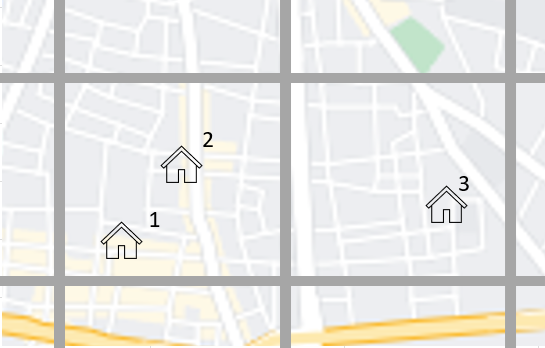
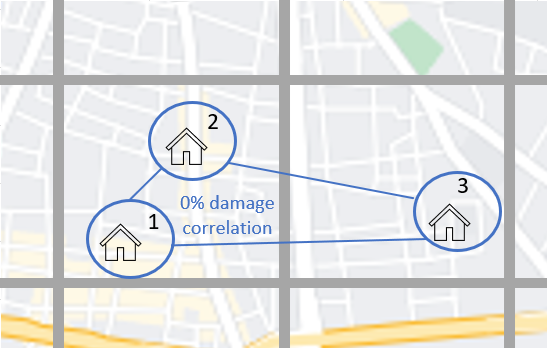
correlation updates

diff --git a/src/sections/correlation.rst b/src/sections/correlation.rst
@@ -22,7 +22,7 @@ Introduction
 This section covers the options in Oasis for modelling correlation in secondary uncertainty, or correlation in the modelled severity of loss given
 an event. 
 
-Correlation is modelled at the most detailed level in Oasis for all models.  The correlated ground up losses are aggregated as they are passed through the financial terms so that all of the downstream financial perspectives capture this correlation.
+Correlation can be modelled at a very detailed level in Oasis. A rule may be specified for correlating loss between the individual coverages of each site for each hazard that impacts them within the context of a single event. The correlated ground up losses are aggregated as they are passed through the financial terms so that all of the downstream financial perspectives capture this correlation.
 
 The methods of correlating losses can vary by model depending on which of the features are used. Users can also control correlation settings for their portfolio.
 
@@ -64,9 +64,10 @@ These can be summarized as follows;
     *   User override using CorrelationGroup field in OED
     *   User override using an OED field list parameter
 *  1.27 and later
+    *   Peril correlation groups
+    *   Partial correlation for damage
+    *   Separate groupings for hazard correlation
     *   Separate hazard and damage sampling (full monte carlo sampling). 
-    *   Partial correlation for damage. 
-    *   Separate groupings for hazard correlation.  
     *   Partial correlation for hazard
 
 |
@@ -85,7 +86,7 @@ In Oasis, each exposure at risk is assigned a ‘group_id’ which is its correl
 •   When exposures have the same group_id, damage will be sampled with full correlation. 
 •   When exposures have different group_ids, damage will be sampled independently.  
 
-To find out how the correlated and independent sampling works, please see the ‘calculation’ section.
+To find out how the correlated and independent sampling works, please see the Sampling Methodology section.
 
 The three illustrated exposures have different group_ids assigned and would all be sampled independently.
 
@@ -95,6 +96,10 @@ The three illustrated exposures have different group_ids assigned and would all 
    :width: 600
 
 |
+
+Note that the locations illustrated may be impacted by the same or similar hazard intensity values per event, depending on the model's footprint. Where there is a single intensity value per model cell in the footprint (this is generally the case), it is only the correlation in damage given the hazard intensity that is being specified using the group_id. 
+
+**Default settings**
 
 Each location in the OED location file is assigned a unique group_id.  This is the system default behaviour for all models.
 
@@ -107,7 +112,7 @@ The group_id is generated automatically based on unique values of the input OED 
     "Port1", "Acc1", "Loc2"
     "Port1", "Acc1", "Loc3"
 
-Under this setting, multiple coverages at each location will be damaged with full correlation, because the group_id is defined at the location level.
+Multiple coverages at each location will be damaged with full correlation, because the group_id is defined at the location level and is the same number for all coverages.
 
 **Model specification of correlation groups**
 
@@ -140,7 +145,7 @@ A modeller can use other OED fields to define the groups, and/or internal Oasis 
 
 This data setting would result in all locations with the same areaperil_id (located in the same hazard model grid cell) being assigned the same group_id.
 
-The two locations in the cell on the left would be assigned the same group_id and damaged with full correlation, but the location in the cell on the right would be sampled independently from every other model cell.
+The two locations in the cell on the left would be assigned the same group_id and damaged with full correlation, but the location in the cell on the right would be sampled independently from locations in every other model cell.
 
 **Correlation groups assigned by model cell**
 
@@ -211,7 +216,138 @@ The OED field list can be specified in the oasislmf settings using the **group_i
 .. _available_1.27:
 
 Available in OasisLMF 1.27
-#########################
+##########################
+
+New correlation features were introduced in release 1.27 in 2022.  This meant breaking changes in the format of the model settings file, and an alternative runtime calculation option 'gulmc' which is required for some of the features explained below.  
+
+The correlation functionality described here is available to use for any standard Oasis model. Complex models that use bespoke correlation methodologies can continue to be used as before, or the new functionality could be incorporated within the complex model wrapper by the model provider. 
+
+|
+
+**Peril correlation groups**
+
+There can be multiple hazards in an event which can give rise to loss. There may be the same peril type, for example flooding from different sources such as river flood / heavy rainfall, or there may be completely different perils and types of damage (e.g. high wind speeds causing roof damage, and flooding causing ground floor damage). 
+
+In previous versions of Oasis, all peril damage at a location has been treated as fully correlated. 
+
+There are now two options; model developers can group the same peril types together to fully correlate them at a location, or treat damage from different peril types (e.g. wind and flood) as independent. 
+
+A peril correlation group number (an integer) can be specified in the lookup settings of the model settings file. This is done for each single peril code used by the model. If peril codes are assigned the same peril correlation group, it means that damage will be fully correlated for those peril codes at each location.   
+
+Here is an example of independent peril damage for a model using two single peril codes;
+
+|
+
+``Model_settings.json``
+
+.. code-block:: JSON
+
+    "lookup_settings":{
+        "supported_perils":[
+           {"id": "WSS", "desc": "Single Peril: Storm Surge", "peril_correlation_group": 1},
+           {"id": "WTC", "desc": "Single Peril: Tropical Cyclone", "peril_correlation_group": 2},
+           {"id": "WW1", "desc": "Group Peril: Windstorm with storm surge"},
+           {"id": "WW2", "desc": "Group Peril: Windstorm w/o storm surge"}
+        ]
+    },
+
+|
+
+The second example groups two single peril codes together in one peril correlation group, meaning that damage will be fully correlated at a location.
+
+``Model_settings.json``
+
+.. code-block:: JSON
+
+    "lookup_settings":{
+        "supported_perils":[
+           {"id": "ORF", "desc": "Single Peril: Fluvial Flood", "peril_correlation_group": 1},
+           {"id": "OSF", "desc": "Single Peril: Pluvial Flood", "peril_correlation_group": 1},
+           {"id": "OO1", "desc": "Group Peril: All Flood perils"}
+        ]
+    },
+
+|
+
+This feature only defines whether peril damage is correlated or independent at a location, and the behaviour is the same for all locations.  
+
+Correlation in  damage between locations is still governed by the group correlation feature of 1.15. If locations share the same group_id across locations, then the damage will be 100% correlated, for each peril correlation group.  
+
+The partial damage correlation feature described below has been introduced to enable a finer degree of control of damage correlation across locations.
+
+|
+
+**Partial damage correlation**
+
+A global damage correlation factor can be specified by the model provider to define how damage should be correlated across locations for each event.  One factor may be specified for each peril correlation group.  This enables correlation in damage for perils that occur in the same event but have different spatial variability in hazard intensity to be specified separately.
+
+The global correlation factor is a number between 0 and 1, where 0 means no correlation and 1 means 100% correlation.  The higher the correlation factor, the greater the tendancy that damage will be consistently low or high across the portfolio with each sample.  When losses are summed to the portfolio level, this leads to a wider range of loss outcomes for the portfolio, per event, and greater extreme losses.
+
+The correlation factor works together with the group correlation functionality. Locations with the same group_id will still have 100% damage correlation, but locations with different group_ids will have partially correlated damage rather than fully independent damage.  
+
+This means that the decision of how group_ids are assigned and the global correlation factor must be made together by the model provider.
+
+|
+
+**Partial damage correlation of 40% between all locations**
+
+.. image:: ../images/correlation4.png
+   :width: 600
+
+|
+
+The correlation factor is specified in a new 'correlation_settings' section of the model settings file.
+
+The example illustrated above would be specified using: 
+
+*   data settings to specify how locations should be grouped
+*   lookup settings to specify the peril correlation group (single peril in this case), and 
+*   correlation settings to specify the global damage correlation factor
+
+|
+
+``Model_settings.json``
+
+.. code-block:: JSON
+
+
+    "data_settings": {
+    "damage_group_fields": ["PortNumber", "AccNumber", "LocNumber"] }
+    },
+
+    "lookup_settings":{
+        "supported_perils":[
+           {"id": "OSF", "desc": "Single Peril: Pluvial Flood", "peril_correlation_group": 1}
+        ]
+    },
+
+    "correlation_settings": [
+          {"peril_correlation_group":  1, "damage_correlation_value":  "0.4"}
+        ]
+
+|
+
+Note there is a breaking change in the data_settings parameter **group_fields** which has been changed to **damage_group_fields** in 1.27.
+
+|
+
+**Separate hazard and damage sampling**
+
+(TO DO)
+
+|
+
+**Separate groupings for hazard correlation**
+
+(TO DO)
+
+|
+
+**Partial hazard correlation**
+
+(TO DO)
+
+|
 
 ----
 
